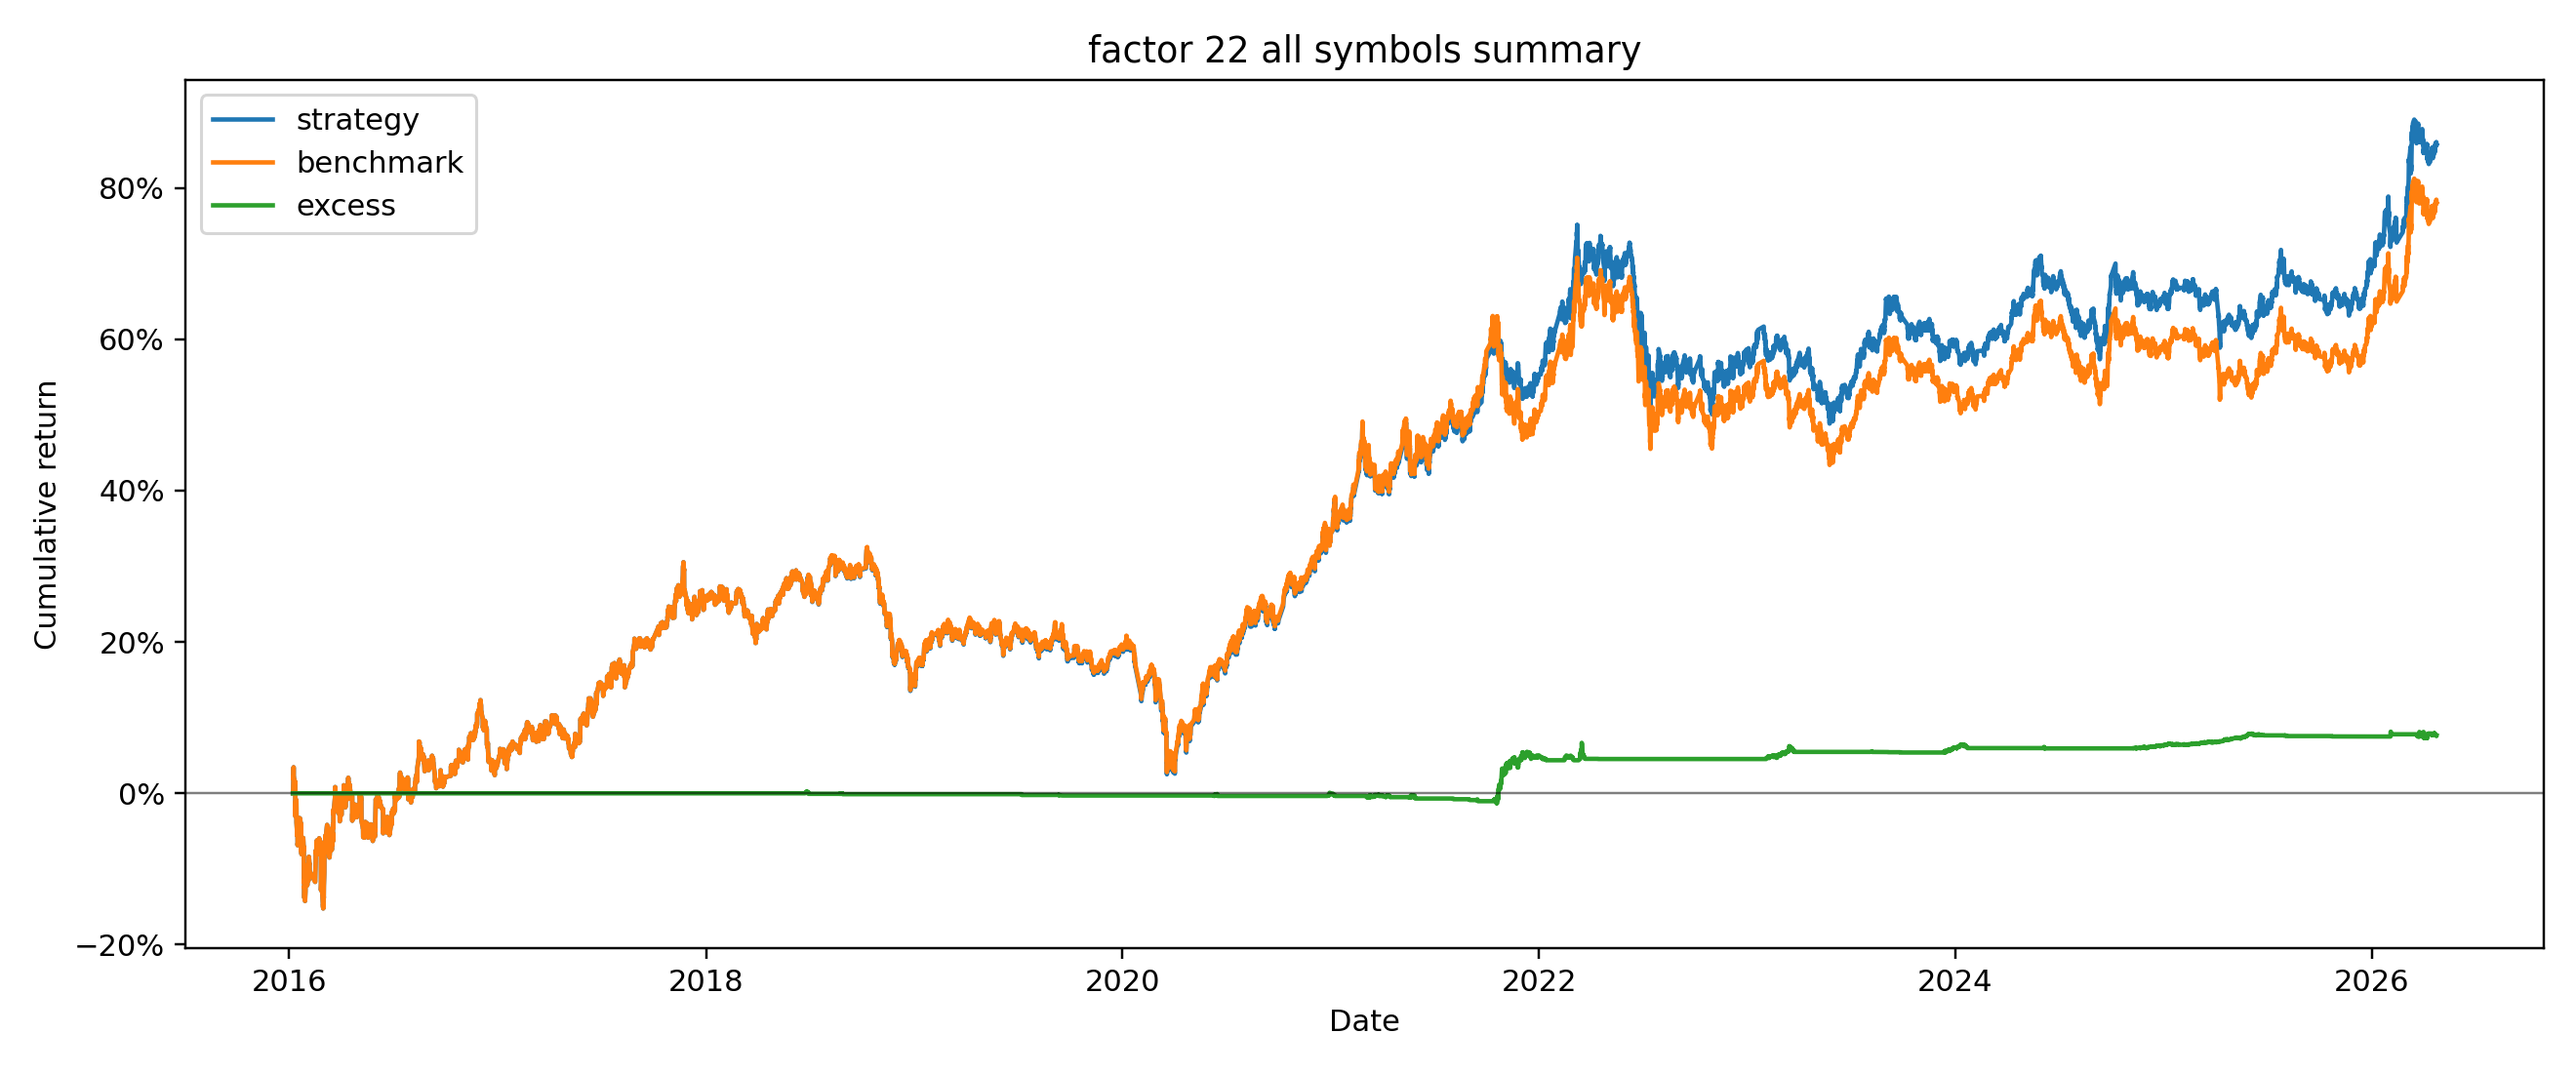
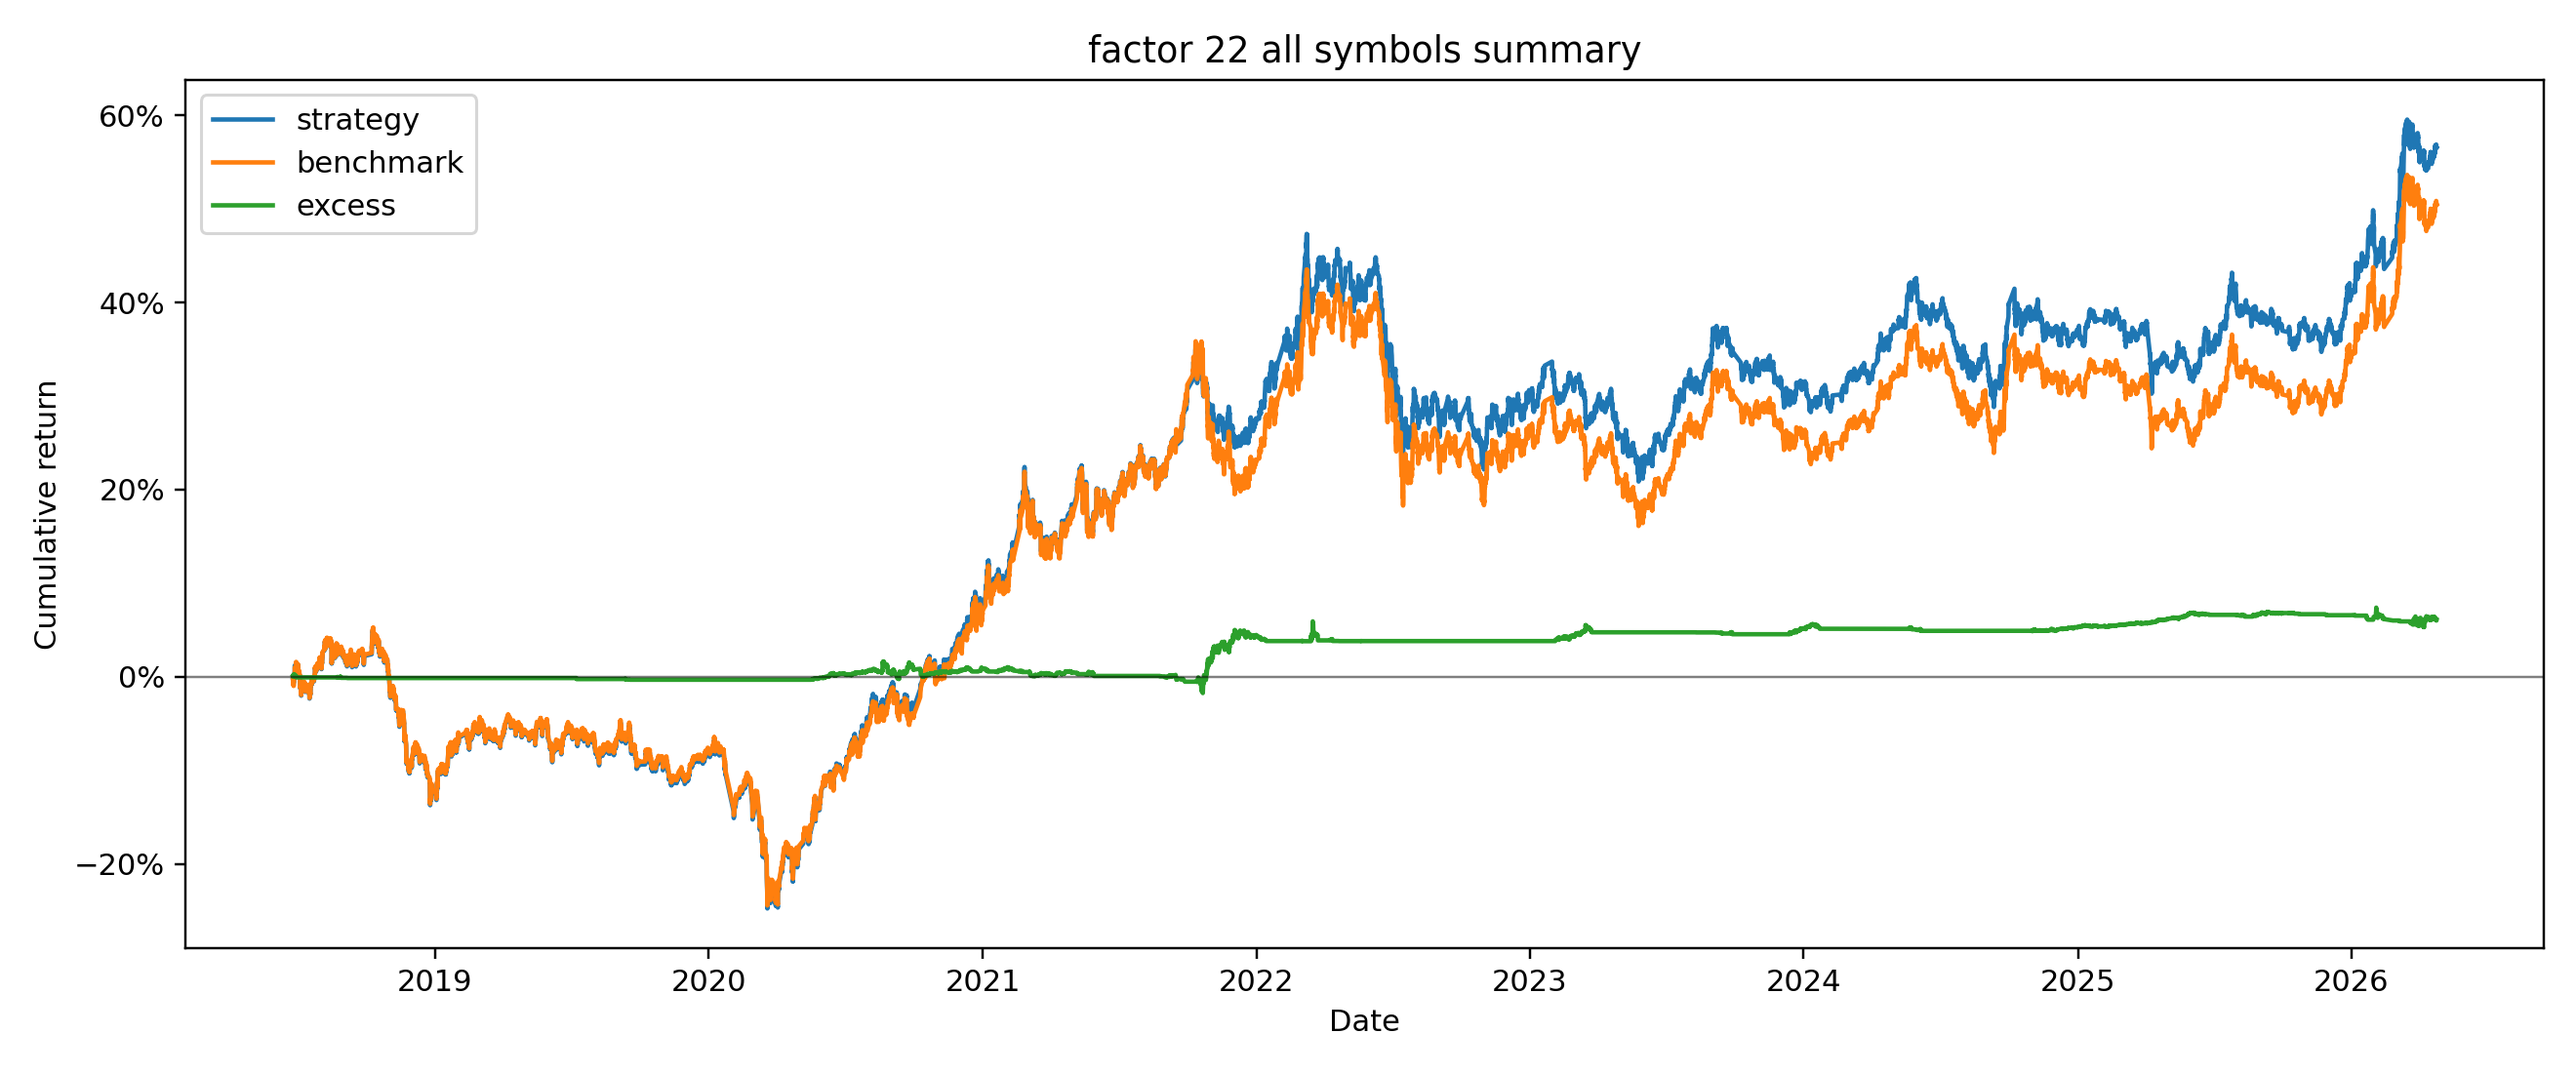
update

diff --git a/code/chapter2/rules/entry_rules.py b/code/chapter2/rules/entry_rules.py
@@ -17,7 +17,6 @@ class EntryConfig:
     ma_trend: int = 60
     ma_bias_threshold: float = 0.04
     ma_long_bias_threshold: float = 0.10
-    ma_long_bias_cap: float | None = None
     oi_slope_window: int = 7
     oi_slope_threshold: float = 0.0
     close_slope_window: int = 7
@@ -49,12 +48,6 @@ def add_entry_signals(daily, config, use_speculation=False):
     data["close_slope_signal"] = (
         data["close_slope_rate"] <= config.close_slope_threshold
     ).astype(int)
-    if config.ma_long_bias_cap is None:
-        data["ma_long_bias_spread_cap_signal"] = 1
-    else:
-        data["ma_long_bias_spread_cap_signal"] = (
-            data["ma_long_bias_spread"] <= config.ma_long_bias_cap
-        ).astype(int)
 
     speculation_score = 0
     if use_speculation:
@@ -73,7 +66,6 @@ def add_entry_signals(daily, config, use_speculation=False):
     data["open_short_signal"] = (
         (data["ma_bias_spread_signal"] == 1)
         & (data["ma_long_bias_spread_signal"] == 1)
-        & (data["ma_long_bias_spread_cap_signal"] == 1)
         & (data["oi_slope_signal"] == 1)
         & (data["close_slope_signal"] == 1)
         & (data["speculation_slope_signal"] == 1)

diff --git a/code/chapter2/factors/factor_22.py b/code/chapter2/factors/factor_22.py
@@ -14,10 +14,8 @@ ENTRY_CONFIG = EntryConfig(
     ma_trend=60,
     ma_bias_threshold=0.04,
     ma_long_bias_threshold=0.10,
-    ma_long_bias_cap=0.18,
-    oi_slope_window=15,
+    oi_slope_window=7,
     close_slope_window=7,
     volatility_window=10,
 )
 EXIT_CONFIG = ExitConfig(trailing_multiplier=3.5)
-

diff --git a/code/chapter2/rolling/factor_24_param_space.py b/code/chapter2/rolling/factor_24_param_space.py
@@ -18,7 +18,6 @@ ENTRY_PARAM_OPTIONS = {
     "ma_trend": [7, 10],
     "ma_bias_threshold": [-0.006, -0.003],
     "ma_long_bias_threshold": [-0.05, -0.03],
-    "ma_long_bias_cap": [0.12, 0.10],
     "oi_slope_window": [7, 10],
     "oi_slope_threshold": [0.003, 0.001],
     "close_slope_window": [7, 10],

diff --git a/code/chapter2/factors/factor_21.py b/code/chapter2/factors/factor_21.py
@@ -14,10 +14,8 @@ ENTRY_CONFIG = EntryConfig(
     ma_trend=60,
     ma_bias_threshold=0.04,
     ma_long_bias_threshold=0.10,
-    ma_long_bias_cap=None,
     oi_slope_window=7,
     close_slope_window=7,
     volatility_window=10,
 )
 EXIT_CONFIG = ExitConfig(trailing_multiplier=4.0)
-

diff --git a/code/chapter2/factors/factor_23.py b/code/chapter2/factors/factor_23.py
@@ -14,7 +14,6 @@ ENTRY_CONFIG = EntryConfig(
     ma_trend=60,
     ma_bias_threshold=0.04,
     ma_long_bias_threshold=0.10,
-    ma_long_bias_cap=0.18,
     oi_slope_window=5,
     close_slope_window=7,
     speculation_slope_window=5,

diff --git a/code/chapter2/factors/factor_24.py b/code/chapter2/factors/factor_24.py
@@ -14,7 +14,6 @@ ENTRY_CONFIG = EntryConfig(
     ma_trend=7,
     ma_bias_threshold=-0.006,
     ma_long_bias_threshold=-0.05,
-    ma_long_bias_cap=0.12,
     oi_slope_window=7,
     oi_slope_threshold=0.003,
     close_slope_window=7,

diff --git a/docs/chapter2_logic_notes.md b/docs/chapter2_logic_notes.md
@@ -6,7 +6,7 @@
 
 这个策略寻找的是：
 
-价格均线仍处在较强的高乖离状态，但最近一段时间持仓量和收盘价都在走弱。21 号是日频基准版本，22 号改成小时级执行，23 号在 21 号基础上增加投机度回落和长期乖离上限过滤。
+价格均线仍处在较强的高乖离状态，但最近一段时间持仓量和收盘价都在走弱。21 号是日频基准版本，22 号改成小时级执行，23 号在 21 号基础上增加投机度回落过滤。
 
 持有空单后，如果价格涨回开仓价上方，或者从开仓以来低点明显反弹，就在下一根可交易 bar 开盘平空。
 
@@ -19,7 +19,6 @@
 | `MA_TREND_WINDOW` | 60 | 21/22/23 | 长期均线窗口 |
 | `MA_BIAS_SPREAD_THRESHOLD` | 0.04 | 21/22/23 | 5 日和 20 日相关乖离差阈值 |
 | `MA_LONG_BIAS_SPREAD_THRESHOLD` | 0.10 | 21/22/23 | 20 日和 60 日相关乖离差下限 |
-| `MA_LONG_BIAS_SPREAD_CAP_THRESHOLD` | 0.18 | 23 | 20 日和 60 日相关乖离差上限 |
 | `REGRESSION_SLOPE_WINDOW` | 7 | 21 | 持仓量和收盘价共用的回归斜率窗口 |
 | `OI_REGRESSION_SLOPE_WINDOW` | 15 | 22 | 持仓量回归斜率窗口 |
 | `OI_REGRESSION_SLOPE_WINDOW` | 5 | 23 | 持仓量回归斜率窗口 |
@@ -279,10 +278,9 @@ or close_t > low_since_entry_t * (1 + 4 * avg_volatility_rate_10_t)
 
 ## 23_high_bias_oi_speculation_drop（日频）开空条件
 
-23 号因子是 21 号的增强版本。它仍然是日频信号、下一交易日开盘执行，但有三处变化：
+23 号因子是 21 号的增强版本。它仍然是日频信号、下一交易日开盘执行，但有两处变化：
 
 - 持仓量回归窗口从 7 日改为 5 日。
-- 长中期乖离差增加上限，要求 `ma_long_bias_spread_t <= 0.18`，避免在过度延伸的强趋势中追空。
 - 增加投机度回落条件，要求最近 5 日投机度回归斜率 `<= -0.01`。
 
 开空信号为：
@@ -290,7 +288,7 @@ or close_t > low_since_entry_t * (1 + 4 * avg_volatility_rate_10_t)
 ```text
 open_short_signal_t =
 ma_bias_spread_t >= 0.04
-and 0.10 <= ma_long_bias_spread_t <= 0.18
+and ma_long_bias_spread_t >= 0.10
 and oi_regression_slope_5_t < 0
 and close_regression_slope_7_t < 0
 and speculation_regression_slope_5_t <= -0.01
